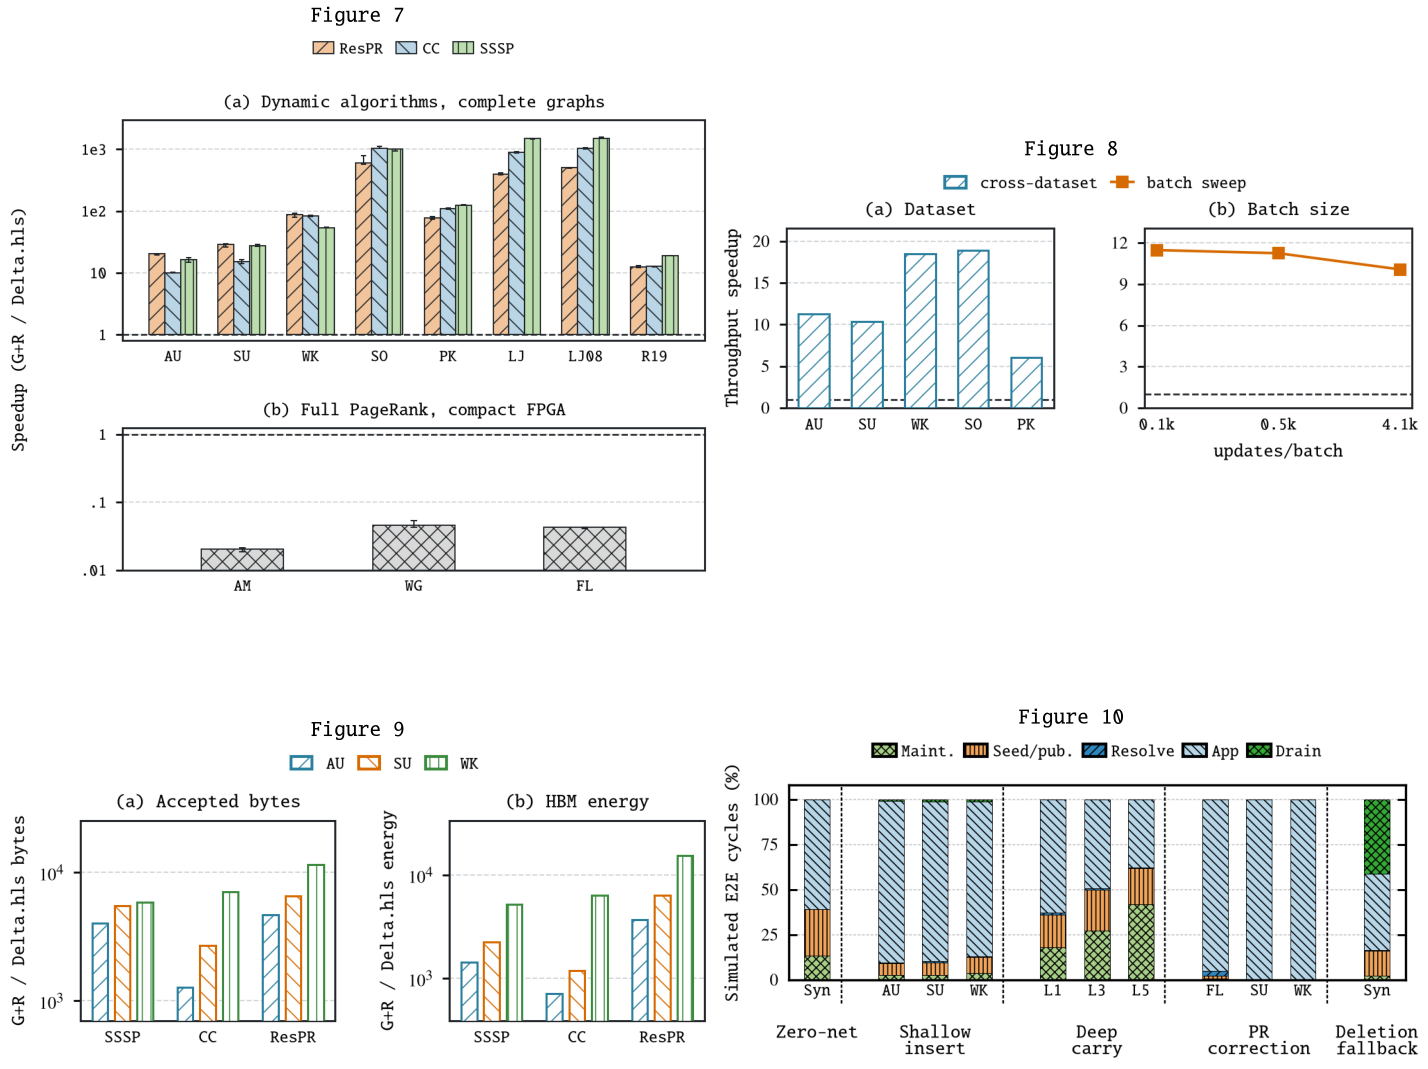
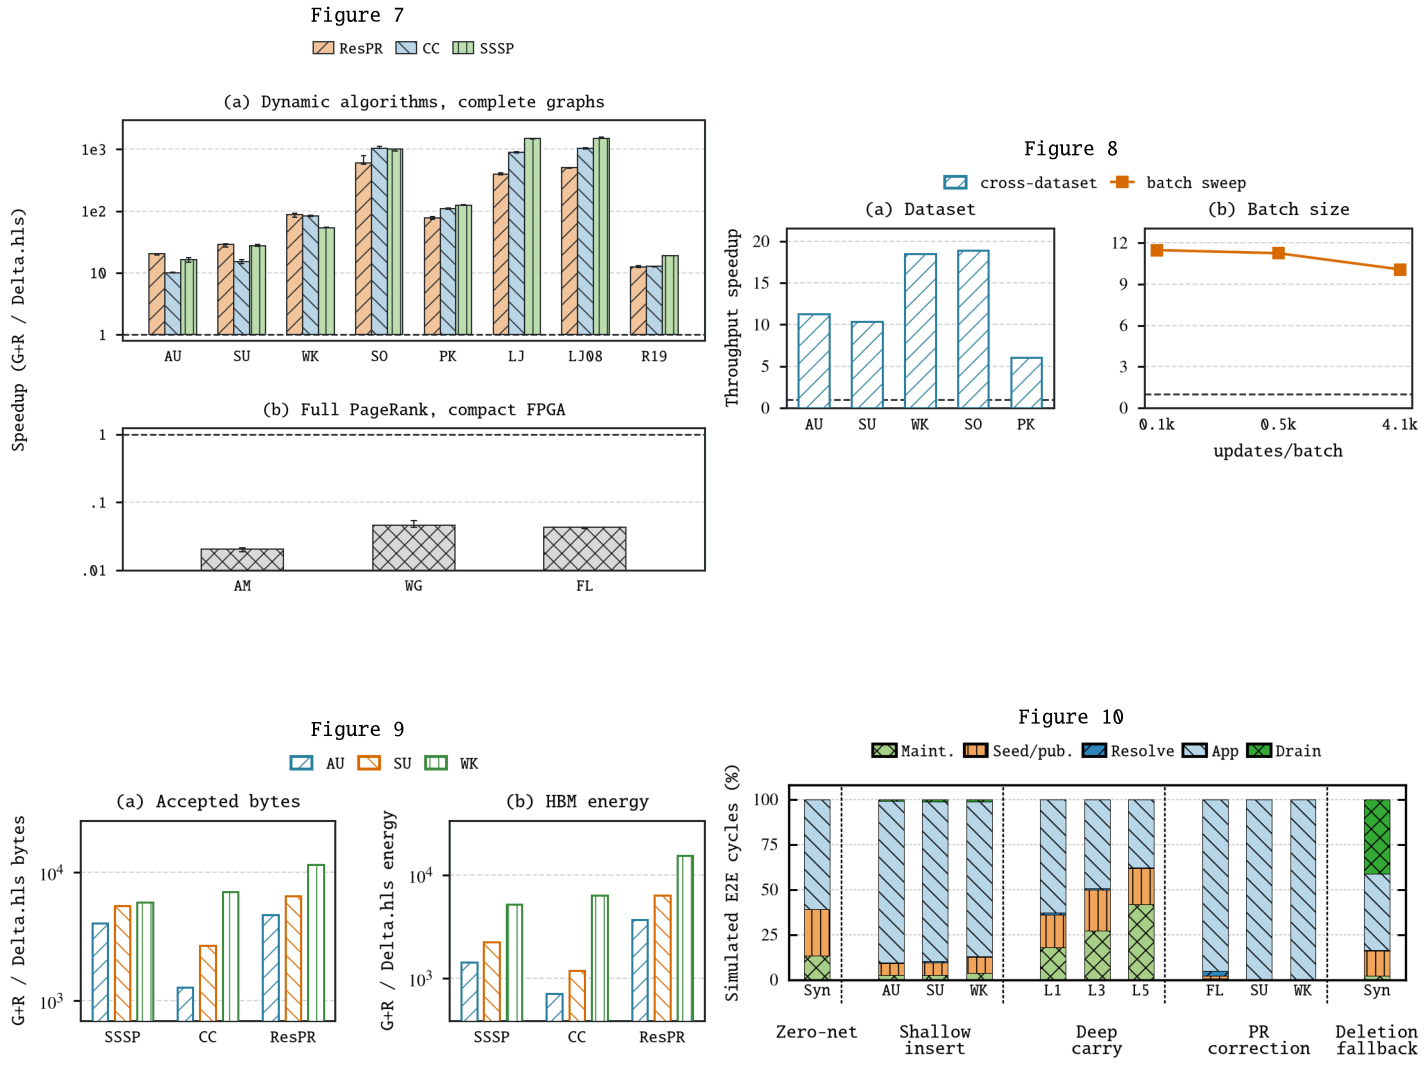
Unify evaluation figure hatch density

diff --git a/docs/evaluation_refresh_20260810/figure7_10_handoff_v1/render_all.py b/docs/evaluation_refresh_20260810/figure7_10_handoff_v1/render_all.py
@@ -32,6 +32,10 @@ ALGORITHM_LABEL = {
     "residual_pagerank": "Residual PageRank",
     "full_pagerank": "Full PageRank, compact FPGA",
 }
+HATCH_FORWARD = "////"
+HATCH_BACKWARD = "\\\\\\\\"
+HATCH_VERTICAL = "||||"
+HATCH_CROSS = "xxxx"
 FIG9_ALGORITHM_ORDER = (
     "weighted_sssp",
     "connected_components",
@@ -57,11 +61,11 @@ FIG10_TICKS = {
     "Deletion fallback": ("Syn",),
 }
 FIG10_STAGES = (
-    ("maintenance_percent", "Maint.", "#A8CF88", "xxxxxxxx"),
-    ("seed_publication_percent", "Seed/pub.", "#F1A55B", "||||||||"),
-    ("resolve_percent", "Resolve", "#2F86BD", "////////"),
-    ("application_percent", "App", "#B7D6E8", "\\\\\\\\\\\\\\\\"),
-    ("drain_sync_percent", "Drain", "#35A936", "xxxxxxxx"),
+    ("maintenance_percent", "Maint.", "#A8CF88", HATCH_CROSS),
+    ("seed_publication_percent", "Seed/pub.", "#F1A55B", HATCH_VERTICAL),
+    ("resolve_percent", "Resolve", "#2F86BD", HATCH_FORWARD),
+    ("application_percent", "App", "#B7D6E8", HATCH_BACKWARD),
+    ("drain_sync_percent", "Drain", "#35A936", HATCH_CROSS),
 )
 
 
@@ -241,9 +245,9 @@ def save_figure(figure: Any, output: Path, *, dpi: int = 300) -> None:
 def render_fig7(plt: Any, rows: list[dict[str, str]]) -> None:
     ink = "#202428"
     algorithm_style = {
-        "residual_pagerank": ("ResPR", "#F2C49B", "////"),
-        "connected_components": ("CC", "#B9D5E6", "\\\\\\\\"),
-        "weighted_sssp": ("SSSP", "#BCDDAE", "||||"),
+        "residual_pagerank": ("ResPR", "#F2C49B", HATCH_FORWARD),
+        "connected_components": ("CC", "#B9D5E6", HATCH_BACKWARD),
+        "weighted_sssp": ("SSSP", "#BCDDAE", HATCH_VERTICAL),
     }
     comparison_order = (
         "residual_pagerank",
@@ -330,7 +334,7 @@ def render_fig7(plt: Any, rows: list[dict[str, str]]) -> None:
         facecolor="#D9D9D9",
         edgecolor=ink,
         linewidth=0.45,
-        hatch="xxxx",
+        hatch=HATCH_CROSS,
         zorder=3,
     )
     axis.errorbar(
@@ -399,7 +403,7 @@ def render_fig8(
         facecolor="white",
         edgecolor=blue,
         linewidth=0.72,
-        hatch="////",
+        hatch=HATCH_FORWARD,
         zorder=3,
     )
     axes[0].set_xticks(x)
@@ -454,9 +458,9 @@ def render_fig9(plt: Any, rows: list[dict[str, str]]) -> None:
     from matplotlib.patches import Patch
 
     dataset_style = {
-        "AU": ("#2A7F9E", "////"),
-        "SU": ("#D66A00", "\\\\\\\\"),
-        "WK": ("#3B8A3E", "||||"),
+        "AU": ("#2A7F9E", HATCH_FORWARD),
+        "SU": ("#D66A00", HATCH_BACKWARD),
+        "WK": ("#3B8A3E", HATCH_VERTICAL),
     }
     ink = "#202428"
     figure, axes = plt.subplots(1, 2, figsize=(3.55, 1.65))
